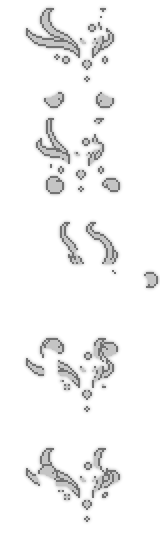
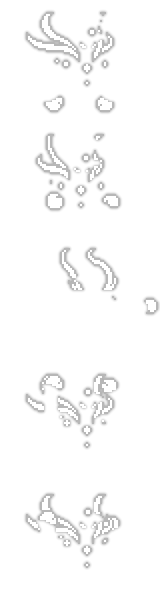
glowup fix

diff --git a/Projectiles/Minions/EridanusMinion.cs b/Projectiles/Minions/EridanusMinion.cs
@@ -19,7 +19,7 @@ namespace FargowiltasSouls.Projectiles.Minions
         {
             DisplayName.SetDefault("Eridanus");
             Main.projFrames[projectile.type] = 5;
-            ProjectileID.Sets.TrailCacheLength[projectile.type] = 6;
+            ProjectileID.Sets.TrailCacheLength[projectile.type] = 7;
             ProjectileID.Sets.TrailingMode[projectile.type] = 2;
         }
 
@@ -311,6 +311,7 @@ namespace FargowiltasSouls.Projectiles.Minions
         {
             Texture2D texture2D13 = Main.projectileTexture[projectile.type];
             Texture2D texture2D14 = mod.GetTexture("NPCs/Champions/CosmosChampion_Glow2");
+            Texture2D texture2D15 = mod.GetTexture("NPCs/Champions/CosmosChampion_Glow");
             int num156 = Main.projectileTexture[projectile.type].Height / Main.projFrames[projectile.type]; //ypos of lower right corner of sprite to draw
             int y3 = num156 * projectile.frame; //ypos of upper left corner of sprite to draw
             Rectangle rectangle = new Rectangle(0, y3, texture2D13.Width, num156);
@@ -318,37 +319,48 @@ namespace FargowiltasSouls.Projectiles.Minions
             SpriteEffects effects = projectile.spriteDirection < 0 ? SpriteEffects.FlipHorizontally : SpriteEffects.None;
 
             Color color26 = projectile.GetAlpha(lightColor);
-            Color glowColor = new Color(150 + Main.DiscoR / 3, 150 + Main.DiscoG / 3, 150 + Main.DiscoB / 3);
-
-            Main.spriteBatch.Draw(texture2D13, projectile.Center - Main.screenPosition + new Vector2(0f, projectile.gfxOffY), new Microsoft.Xna.Framework.Rectangle?(rectangle), color26, projectile.rotation, origin2, projectile.scale, effects, 0f);
+            int add = 150;
+            Color glowColor = new Color(add + Main.DiscoR / 3, add + Main.DiscoG / 3, add + Main.DiscoB / 3);
 
             spriteBatch.End();
             spriteBatch.Begin(SpriteSortMode.Immediate, BlendState.Additive, Main.DefaultSamplerState, DepthStencilState.None, RasterizerState.CullCounterClockwise, null, Main.Transform);
+
             for (int i = 0; i < ProjectileID.Sets.TrailCacheLength[projectile.type]; i++)
             {
                 if (i % 2 == (drawTrailOffset > 1 ? 1 : 0))
                     continue;
-                Color color27 = color26 * 0.5f;
-                color27 *= (float)(ProjectileID.Sets.TrailCacheLength[projectile.type] - i) / ProjectileID.Sets.TrailCacheLength[projectile.type];
+                //Color color27 = color26 * 0.5f;
+                //color27 *= (float)(ProjectileID.Sets.TrailCacheLength[projectile.type] - i) / ProjectileID.Sets.TrailCacheLength[projectile.type];
                 Vector2 value4 = projectile.oldPos[i];
                 float num165 = projectile.oldRot[i];
 
-                Main.spriteBatch.Draw(texture2D13, value4 + projectile.Size / 2f - Main.screenPosition + new Vector2(0, projectile.gfxOffY), new Microsoft.Xna.Framework.Rectangle?(rectangle), color27, num165, origin2, projectile.scale, effects, 0f);
-             
+                //Main.spriteBatch.Draw(texture2D13, value4 + projectile.Size / 2f - Main.screenPosition + new Vector2(0, projectile.gfxOffY), new Microsoft.Xna.Framework.Rectangle?(rectangle), color27, num165, origin2, projectile.scale, effects, 0f);
+
                 Color color28 = glowColor * 0.5f;
-                Main.spriteBatch.Draw(texture2D14, value4 + projectile.Size / 2f - Main.screenPosition + new Vector2(0, projectile.gfxOffY), new Microsoft.Xna.Framework.Rectangle?(rectangle), color28, num165, origin2, projectile.scale, effects, 0f);
+                Color color28butbrighter = glowColor * 0.2f;
+
+                Main.spriteBatch.Draw(texture2D14, value4 + projectile.Size / 2f - Main.screenPosition + new Vector2(0, projectile.gfxOffY), new Microsoft.Xna.Framework.Rectangle?(rectangle), color28butbrighter, num165, origin2, projectile.scale, effects, 0f);
+                Main.spriteBatch.Draw(texture2D15, value4 + projectile.Size / 2f - Main.screenPosition + new Vector2(0, projectile.gfxOffY), new Microsoft.Xna.Framework.Rectangle?(rectangle), color28, num165, origin2, projectile.scale, effects, 0f);
             }
-            Main.spriteBatch.Draw(texture2D14, projectile.Center - Main.screenPosition + new Vector2(0f, projectile.gfxOffY), new Microsoft.Xna.Framework.Rectangle?(rectangle), glowColor, projectile.rotation, origin2, projectile.scale, effects, 0f);
             
             spriteBatch.End();
-            spriteBatch.Begin(SpriteSortMode.Immediate, BlendState.AlphaBlend, Main.DefaultSamplerState, DepthStencilState.None, RasterizerState.CullCounterClockwise, null, Main.Transform);
+            spriteBatch.Begin(SpriteSortMode.Immediate, BlendState.NonPremultiplied, Main.DefaultSamplerState, DepthStencilState.None, RasterizerState.CullCounterClockwise, null, Main.Transform);
+
+            Main.spriteBatch.Draw(texture2D13, projectile.Center - Main.screenPosition + new Vector2(0f, projectile.gfxOffY), new Microsoft.Xna.Framework.Rectangle?(rectangle), color26, projectile.rotation, origin2, projectile.scale, effects, 0f);
+            //drawing this before too so it's not affected by the light of the og sprite
+            Main.spriteBatch.Draw(texture2D14, projectile.Center - Main.screenPosition + new Vector2(0f, projectile.gfxOffY), new Microsoft.Xna.Framework.Rectangle?(rectangle), glowColor, projectile.rotation, origin2, projectile.scale, effects, 0f);
+
+            spriteBatch.End();
+            spriteBatch.Begin(SpriteSortMode.Immediate, BlendState.Additive, Main.DefaultSamplerState, DepthStencilState.None, RasterizerState.CullCounterClockwise, null, Main.Transform);
+
+            Main.spriteBatch.Draw(texture2D14, projectile.Center - Main.screenPosition + new Vector2(0f, projectile.gfxOffY), new Microsoft.Xna.Framework.Rectangle?(rectangle), glowColor, projectile.rotation, origin2, projectile.scale, effects, 0f);
 
             return false;
         }
-
         public override Color? GetAlpha(Color lightColor)
         {
-            return lightColor * projectile.Opacity * .75f;
+            Color poglight = new Color(lightColor.R - 30, lightColor.G - 30, lightColor.B - 30);
+            return poglight * projectile.Opacity;
         }
     }
 }

diff --git a/NPCs/Champions/CosmosChampion.cs b/NPCs/Champions/CosmosChampion.cs
@@ -1376,7 +1376,6 @@ namespace FargowiltasSouls.NPCs.Champions
             Texture2D texture2D15 = mod.GetTexture("NPCs/Champions/CosmosChampion_Glow2");
             Color glowColor = new Color(150 + Main.DiscoR / 3, 150 + Main.DiscoG / 3, 150 + Main.DiscoB / 3);
 
-            Main.spriteBatch.Draw(texture2D13, npc.Center - Main.screenPosition + new Vector2(0f, npc.gfxOffY), new Microsoft.Xna.Framework.Rectangle?(rectangle), npc.GetAlpha(lightColor), npc.rotation, origin2, npc.scale, effects, 0f);
 
             spriteBatch.End();
             spriteBatch.Begin(SpriteSortMode.Immediate, BlendState.Additive, Main.DefaultSamplerState, DepthStencilState.None, RasterizerState.CullCounterClockwise, null, Main.Transform);
@@ -1402,11 +1401,17 @@ namespace FargowiltasSouls.NPCs.Champions
                 Main.spriteBatch.Draw(texture2D14, npc.Center - Main.screenPosition + new Vector2(0f, npc.gfxOffY), new Microsoft.Xna.Framework.Rectangle?(rectangle), Color.White * npc.Opacity, npc.rotation, origin2, scale, effects, 0f);
             }*/
 
-            
+            spriteBatch.End();
+            spriteBatch.Begin(SpriteSortMode.Immediate, BlendState.NonPremultiplied, Main.DefaultSamplerState, DepthStencilState.None, RasterizerState.CullCounterClockwise, null, Main.Transform);
+
+            Main.spriteBatch.Draw(texture2D13, npc.Center - Main.screenPosition + new Vector2(0f, npc.gfxOffY), new Microsoft.Xna.Framework.Rectangle?(rectangle), npc.GetAlpha(lightColor), npc.rotation, origin2, npc.scale, effects, 0f);
             Main.spriteBatch.Draw(texture2D15, npc.Center - Main.screenPosition + new Vector2(0f, npc.gfxOffY), new Microsoft.Xna.Framework.Rectangle?(rectangle), glowColor, npc.rotation, origin2, npc.scale, effects, 0f);
 
             spriteBatch.End();
             spriteBatch.Begin(SpriteSortMode.Immediate, BlendState.Additive, Main.DefaultSamplerState, DepthStencilState.None, RasterizerState.CullCounterClockwise, null, Main.Transform);
+
+            Main.spriteBatch.Draw(texture2D15, npc.Center - Main.screenPosition + new Vector2(0f, npc.gfxOffY), new Microsoft.Xna.Framework.Rectangle?(rectangle), glowColor, npc.rotation, origin2, npc.scale, effects, 0f);
+
             return false;
         }
     }
